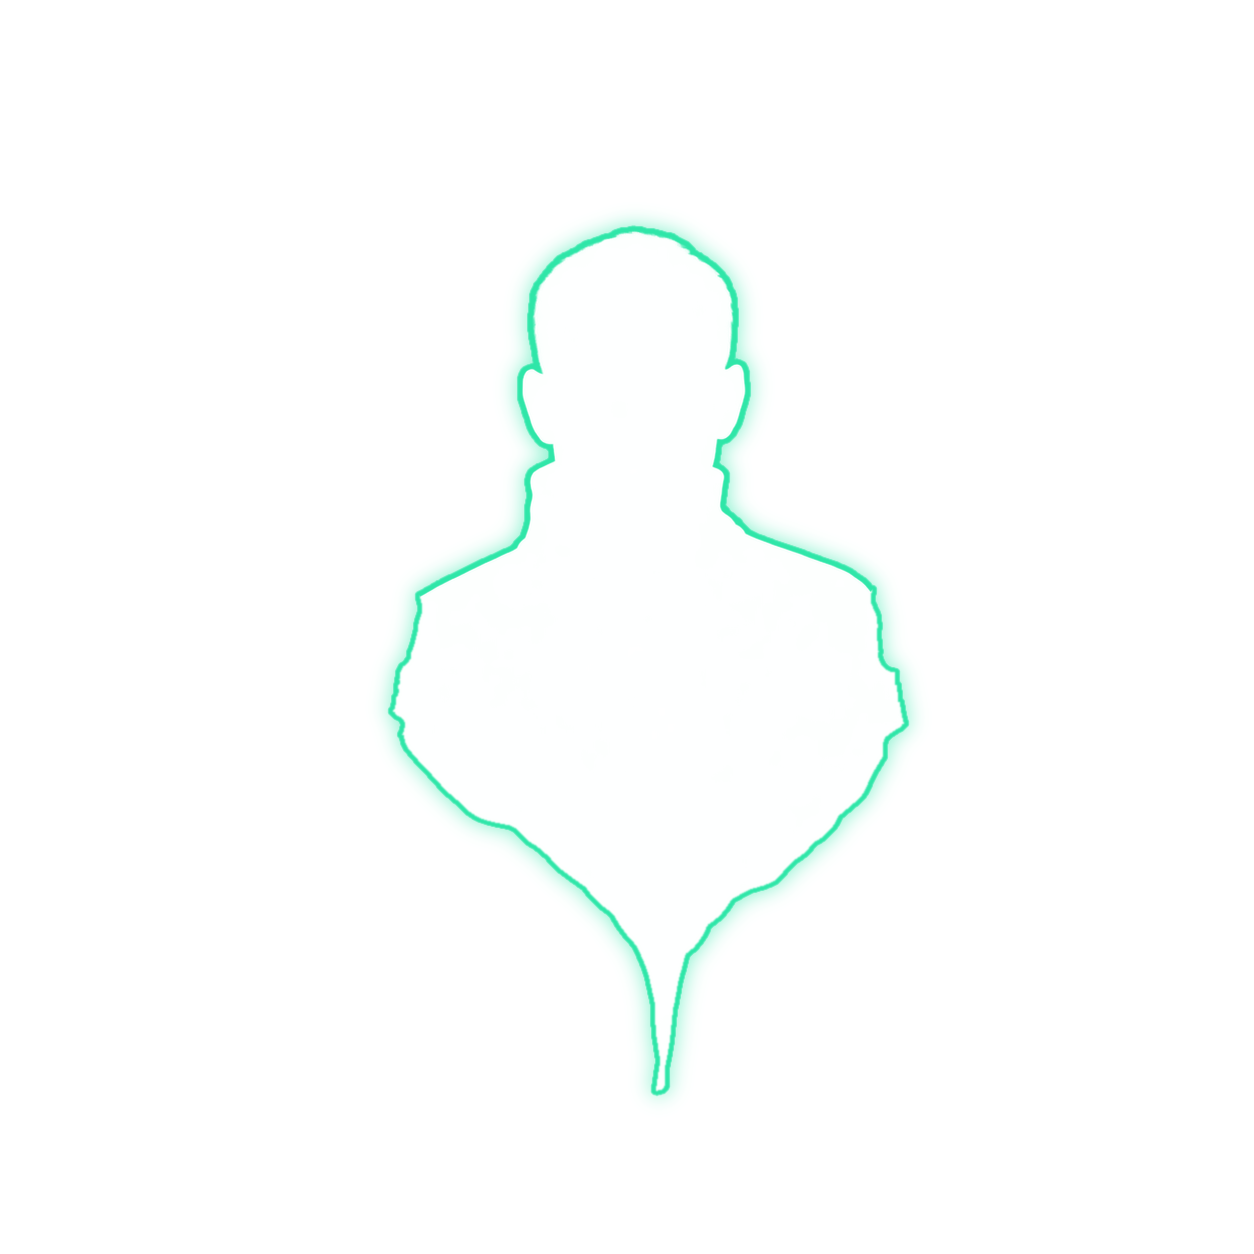
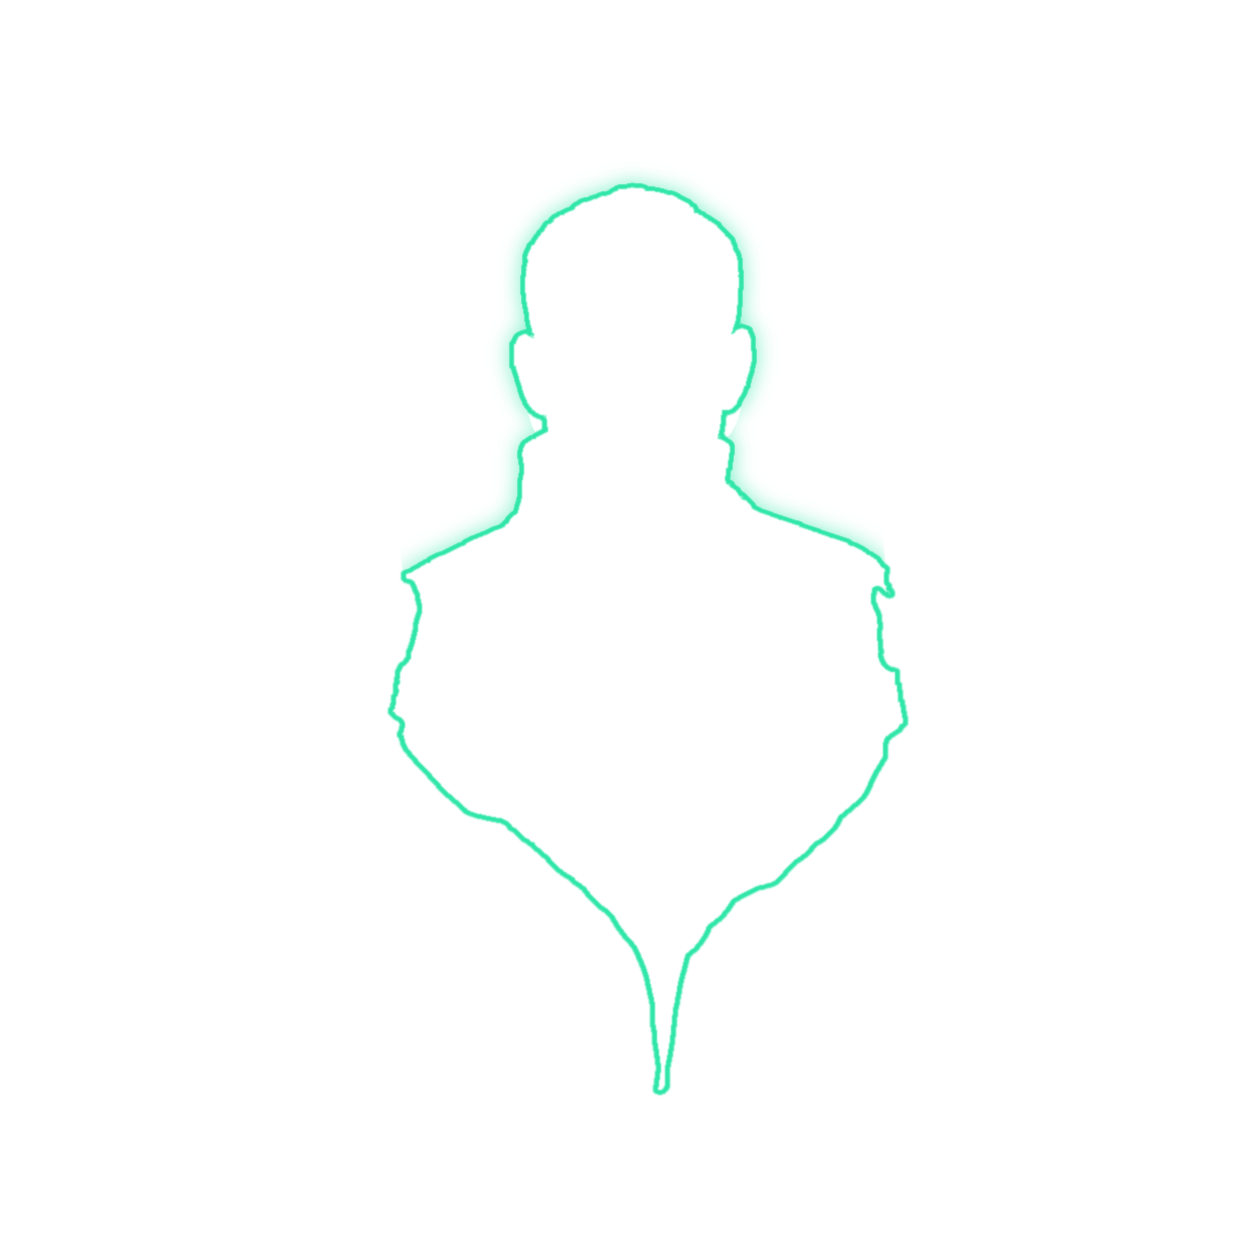
Label line-up: Džu's outline as one even stroke above the fade
Claude-Session: https://claude.ai/code/session_01JMfA34M6VFi3R26SYgnWvH

diff --git a/css/style.css b/css/style.css
@@ -4299,9 +4299,10 @@ html.js .label-about.is-revealed .label-about__rule{ transition-delay:520ms; }
    their one-sentence bio fades in. Motion answers at once and settles
    softly (--lineup-snap); the big words hand over in sequence — the
    old one leaves in 140ms, the new one arrives after it — so two
-   words never overlap. Džu's outline is two images: one that
-   grows with him under the two in front, and a fixed seam line on
-   their edges that only settles in once he has grown. */
+   words never overlap. Džu stands behind the other two, so his
+   outline is one fixed image drawn at his grown size (same 5px line +
+   glow as theirs) that settles in as he finishes growing. All three
+   outlines sit above the fade, so it never dims them. */
 .label-lineup{
   --lineup-snap:cubic-bezier(.22,1,.36,1);   /* starts at once, settles softly */
   --lineup-grow:1.06;
@@ -4377,7 +4378,7 @@ html.js .label-about.is-revealed .label-about__rule{ transition-delay:520ms; }
   pointer-events:none;
 }
 .label-lineup__layer img,
-.label-lineup__seam{
+.label-lineup__dzu-line{
   display:block;
   width:100%;
   height:100%;
@@ -4389,7 +4390,7 @@ html.js .label-about.is-revealed .label-about__rule{ transition-delay:520ms; }
   opacity:0;
   transition:opacity 450ms ease;
 }
-.label-lineup__seam{
+.label-lineup__dzu-line{
   position:absolute;
   inset:0;
   z-index:4;
@@ -4409,8 +4410,8 @@ html.js .label-about.is-revealed .label-about__rule{ transition-delay:520ms; }
   aspect-ratio:1;
   z-index:2;
   pointer-events:none;
-  -webkit-mask-image:linear-gradient(to bottom, #000 0, #000 58%, transparent 71%);
-          mask-image:linear-gradient(to bottom, #000 0, #000 58%, transparent 71%);
+  -webkit-mask-image:linear-gradient(to bottom, #000 0, #000 65%, transparent 71.5%);
+          mask-image:linear-gradient(to bottom, #000 0, #000 65%, transparent 71.5%);
 }
 
 /* the photo melts into the page under the credits */
@@ -4540,14 +4541,14 @@ html.js .label-about.is-revealed .label-about__rule{ transition-delay:520ms; }
 }
 .label-lineup__stage[data-active="0"] .label-lineup__layer[data-p="0"],
 .label-lineup__stage[data-active="2"] .label-lineup__layer[data-p="2"]{ transform:scale(var(--lineup-grow)); z-index:3; }
-/* Džu grows behind the other two; the seam line is drawn for exactly this size */
+/* Džu grows behind the other two; his fixed outline is drawn for exactly this size */
 .label-lineup__stage[data-active="1"] .label-lineup__layer[data-p="1"]{ transform:scale(1.06); }
 .label-lineup__stage[data-active="0"] .label-lineup__outline[data-p="0"] img,
 .label-lineup__stage[data-active="1"] .label-lineup__outline[data-p="1"] img,
 .label-lineup__stage[data-active="2"] .label-lineup__outline[data-p="2"] img{ opacity:1; }
-.label-lineup__stage[data-active="1"] .label-lineup__seam{
+.label-lineup__stage[data-active="1"] .label-lineup__dzu-line{
   opacity:1;
-  transition:opacity 350ms ease 420ms;
+  transition:opacity 400ms ease 300ms;   /* settles in as he finishes growing */
 }
 .label-lineup__stage[data-active="0"] .label-lineup__credit[data-p="0"] .label-lineup__detail,
 .label-lineup__stage[data-active="1"] .label-lineup__credit[data-p="1"] .label-lineup__detail,
@@ -4584,7 +4585,7 @@ html.js .label-about.is-revealed .label-about__rule{ transition-delay:520ms; }
   .label-lineup__word,
   .label-lineup__layer,
   .label-lineup__outline img,
-  .label-lineup__seam,
+  .label-lineup__dzu-line,
   .label-lineup__credit,
   .label-lineup__detail{ transition:none !important; }
 }

diff --git a/label/index.html b/label/index.html
@@ -90,9 +90,9 @@
          forward: their layer grows, a Label-green outline fades in,
          the big word becomes their nickname, the other two fall into
          shadow, and their one-sentence bio fades in under their
-         credit. Džu stands behind the other two, so his outline is in
-         two parts: one that grows with him (hidden behind the two in
-         front) and a fixed line on their edges (…-seam). State lives
+         credit. Džu stands behind the other two, so his outline is one
+         fixed image drawn at his grown size, settling in as he finishes
+         growing. All outlines sit above the fade. State lives
          in [data-active] on the stage; js/main.js only sets it.
          ============================================================ -->
     <section class="section label-lineup" id="people" aria-labelledby="label-people-title">
@@ -106,18 +106,18 @@
         </div>
 
         <div class="label-lineup__photo reveal" data-delay="1" data-hitmap="../assets/img/people/hitmap.png" role="img" aria-label="Đorđe Grgurović – Grzi, Rajko Bogosavljević – Džu and Milan Subotić – Igla in white quarter-zips; Džu holds a small potted plant" data-i18n-aria-label="label.people.photoAlt">
-          <div class="label-lineup__layer label-lineup__outline" data-p="1"><img src="../assets/img/people/outline-dzu.webp" alt="" width="1254" height="1254" decoding="async" draggable="false"></div>
           <div class="label-lineup__layer label-lineup__person" data-p="0"><img src="../assets/img/people/grzi.webp" alt="" width="1254" height="1254" decoding="async" draggable="false"></div>
           <div class="label-lineup__layer label-lineup__person" data-p="1"><img src="../assets/img/people/dzu.webp" alt="" width="1254" height="1254" decoding="async" draggable="false"></div>
           <div class="label-lineup__layer label-lineup__person" data-p="2"><img src="../assets/img/people/igla.webp" alt="" width="1254" height="1254" decoding="async" draggable="false"></div>
         </div>
         <div class="label-lineup__fade" aria-hidden="true"></div>
-        <!-- outlines of the two in front + Džu's seam, drawn ABOVE the fade so the glow isn't dimmed by it
-             (Džu's own outline stays inside the photo, under the two in front, which hide whatever runs behind them) -->
+        <!-- all three outlines, drawn ABOVE the fade so the glow is never dimmed by it.
+             Grzi's and Igla's grow with them; Džu's is one fixed line drawn at his grown size
+             (he stands behind the other two), so it settles in as he finishes growing -->
         <div class="label-lineup__lines reveal" data-delay="1" aria-hidden="true">
             <div class="label-lineup__layer label-lineup__outline" data-p="0"><img src="../assets/img/people/outline-grzi.webp" alt="" width="1254" height="1254" decoding="async" draggable="false"></div>
             <div class="label-lineup__layer label-lineup__outline" data-p="2"><img src="../assets/img/people/outline-igla.webp" alt="" width="1254" height="1254" decoding="async" draggable="false"></div>
-            <img class="label-lineup__seam" src="../assets/img/people/outline-dzu-seam.webp" alt="" width="1254" height="1254" decoding="async" draggable="false">
+            <img class="label-lineup__dzu-line" src="../assets/img/people/outline-dzu.webp" alt="" width="1254" height="1254" decoding="async" draggable="false">
         </div>
 
         <ul class="label-lineup__credits reveal" data-delay="2" role="list">

diff --git a/REFERENCE.md b/REFERENCE.md
@@ -808,9 +808,7 @@ Designed on the Claude Design canvas as direction "E · Step forward" and approv
   - Džu's layer runs about 16px under the two in front, and Grzi's runs about 8px under Igla's, so no seam ever shows.
   - The split came from person segmentation and was hand-tuned at the ears and beards. If the photo changes, the cut-outs and outlines must be regenerated.
 - **Outlines.** Each `outline-*.webp` is a Label-green line plus a soft glow, drawn outside that person's silhouette.
-  - Džu stands behind the other two, so his outline is in two parts:
-    - `outline-dzu.webp` grows with him and sits under the two in front, which hide whatever runs behind them.
-    - `outline-dzu-seam.webp` is a fixed line on their edges, drawn for exactly his grown size (1.06). If you change his growth, regenerate the seam.
+  - Džu stands behind the other two, so his outline is one fixed image, `outline-dzu.webp`, drawn at his grown size (1.06): the same 5px line and glow, running all the way round, including along Grzi's and Igla's edges. The glow only spills onto the black. It fades in 300ms after he starts growing, so it never shows half-grown. If you change his growth, regenerate it.
 - **State.** `js/main.js` only sets `[data-active="0|1|2"]` on `[data-lineup]`; all motion is in CSS.
   - What changes on selection: the hovered person grows (Grzi and Igla move above everyone, Džu grows behind), the outline fades in, the big word becomes the nickname, the others go to `brightness(.55)` and the credits to opacity .4, and the bio fades in.
   - Input:
@@ -820,13 +818,13 @@ Designed on the Claude Design canvas as direction "E · Step forward" and approv
     - **Keyboard:** focus selects only when it is `:focus-visible`, and Escape clears.
 - **Motion.** The selection responds the moment the mouse enters or leaves a person.
   - The person grows over 700ms on `--lineup-snap`, which starts at once and settles softly. The dim and the outline take about 0.45s, and the bio follows 120ms behind.
-  - Džu's seam fades in at 420ms, once he has nearly finished growing.
+  - Džu's outline fades in at 300ms, as he finishes growing.
   - Big words hand over in sequence: the outgoing word leaves in 140ms, and the incoming one only starts after that, so two words never overlap.
   - With reduced motion, there are no transitions.
 - **Layout.** The stage is a 1440-wide design box sized in container units (`1cqw` = 14.4px at 1440), so the whole composition scales as one.
   - The stage also fits the screen's height: its width is `min(100%, 1440px, max(640px, (100svh − 220px) × 1.96))`. The names sit at about 74% of the photo's height, over the faded sweaters, so the header, people, names and caption fit in one view on any desktop screen (checked from 1280×720 to 2560×1300).
   - The fade (`.label-lineup__fade`) reaches past the photo's bottom edge, and the photo's left and right edges are feathered, so no hard edge of the square shows.
-  - Grzi's and Igla's outlines and Džu's seam live in `.label-lineup__lines`, a copy of the photo box placed above the fade, so the fade never dims the glow; they soften out just above the names. Džu's own outline stays inside the photo, under the two in front.
+  - All three outlines live in `.label-lineup__lines`, a copy of the photo box placed above the fade, so the fade never dims them. They stay fully bright until about 65% of the photo's height and then soften out over a short band, just above the names.
   - On wide screens the roles and bio of the selected person are one shared caption (`.label-lineup__detail`), centred under the three names, rather than separate text under each column. It hands over in sequence like the big words, so two captions never show together. At 900px and below, each person's caption sits under their own name and is always visible.
   - At 900px and below, the photo goes full width, the credits stack, and every bio is shown.
 - **Copy.** There is no eyebrow or note row: the section opens straight on the big "BEHIND GRM." (`label.people.eyebrow` and `.note` were removed). The bios are one sentence each, under `label.people.bio.{grzi,dzu,igla}` (EN and SR); the photo description is under `label.people.photoAlt`.
